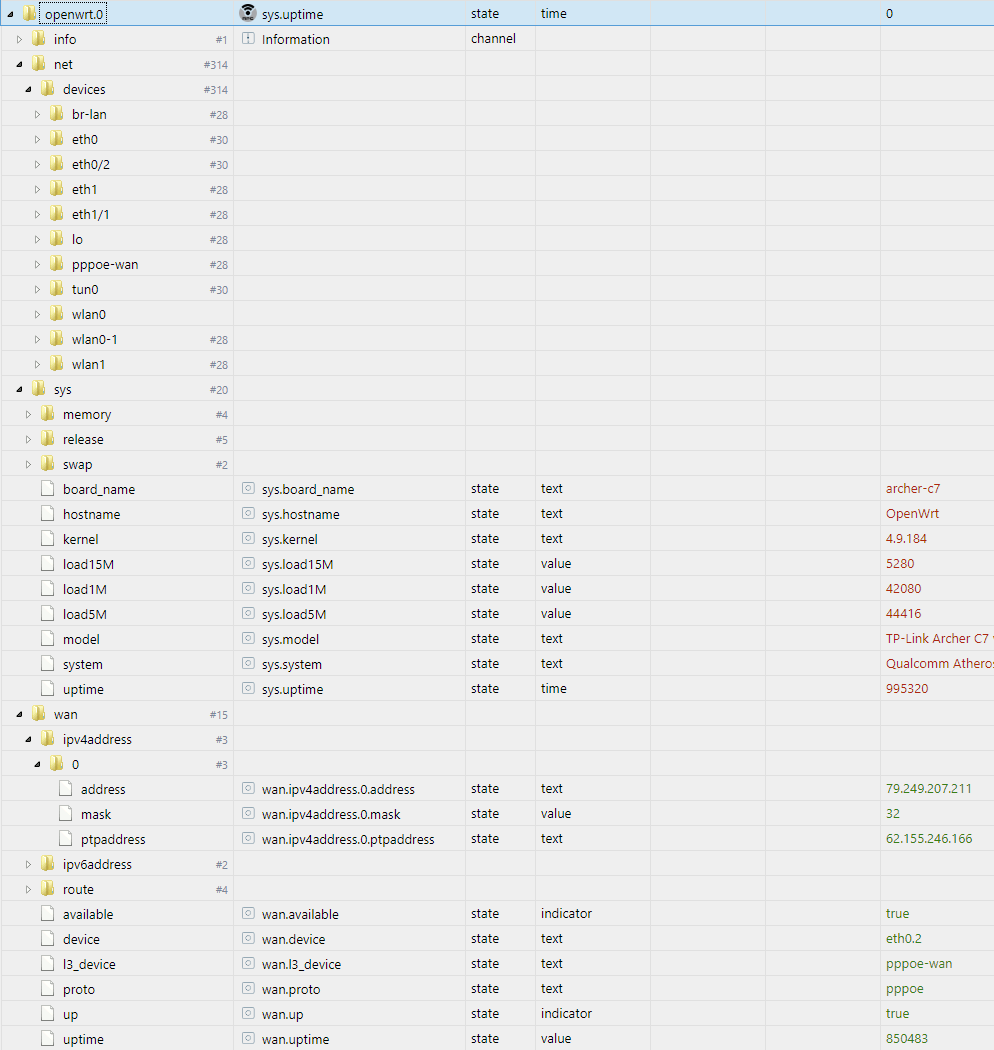
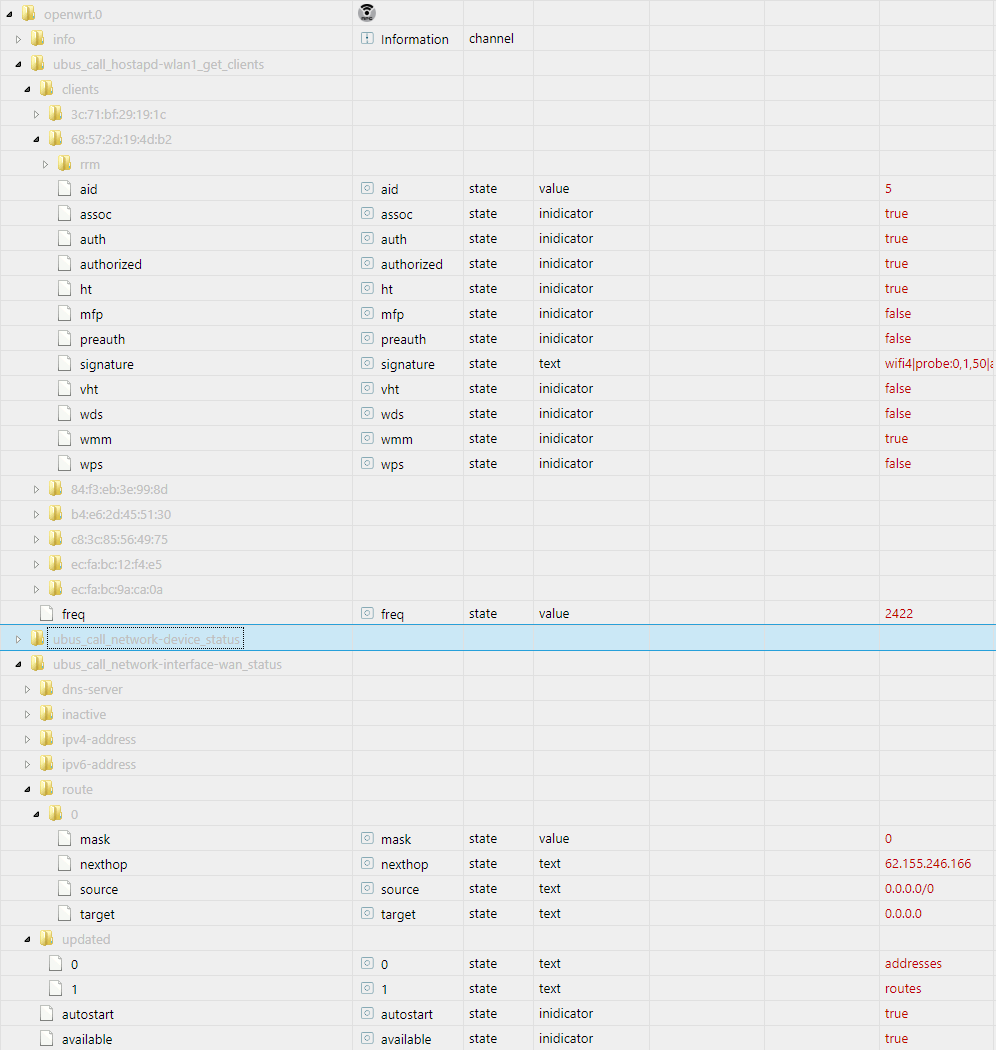
Removed old function, commands documented in wiki Updated picture for readme

diff --git a/main.js b/main.js
@@ -369,7 +369,7 @@ class Openwrt extends utils.Adapter {
 
 
 
-    fHTTPGetUbusCMD(sCMD) {  //UBUS Communication
+    fHTTPGetUbusCMD(sCMD) {  //ubus Communication
         const oReqBody = {
             "method": "exec",
             "params": [ sCMD ]
@@ -403,255 +403,6 @@ class Openwrt extends utils.Adapter {
             }
         });
     }
-
-    /*fHTTPGetSysinfo() {  //System-Information
-        const oReqBody = {
-            "method": "exec",
-            "params": [ "ubus call system info" ]
-        };
-        const oReqOpt = {
-            "method": "POST",
-            "url": this.config.inp_url + "sys?auth="+this.config.sToken,
-            "headers": {
-                "Content-Type": ["application/json", "text/plain"]
-            },
-            "body": JSON.stringify(oReqBody)            
-        };
-
-        request(oReqOpt, async (error, response, body) => {
-            if (await this.fValidateHTTPResult(error,response,"GetSysinfo")) {
-                try {
-                    //bug... output \n\t\ seems broken, delete it
-                    body = this.replaceAll(body,"\n\t","");
-                    const oBody = JSON.parse(body);
-                    if (!oBody.error && oBody.result) {
-                        const oSysInfo = JSON.parse(oBody.result);
-                        if(typeof oSysInfo.uptime != "undefined") this.fSetValue2State(oSysInfo.uptime, { name: "sys.uptime", type: "number", role: "value", read: true, write: false }); 
-                        if(typeof oSysInfo.load != "undefined") {
-                            this.fSetValue2State(oSysInfo.load[1], { name: "sys.load1M", type: "number", role: "value", read: true, write: false }); 
-                            this.fSetValue2State(oSysInfo.load[2], { name: "sys.load5M", type: "number", role: "value", read: true, write: false }); 
-                            this.fSetValue2State(oSysInfo.load[3], { name: "sys.load15M", type: "number", role: "value", read: true, write: false });
-                        }
-                        if(typeof oSysInfo.memory.total != "undefined") this.fSetValue2State(oSysInfo.memory.total, { name: "sys.memory.total", type: "number", role: "value", read: true, write: false }); 
-                        if(typeof oSysInfo.memory.free != "undefined") this.fSetValue2State(oSysInfo.memory.free, { name: "sys.memory.free", type: "number", role: "value", read: true, write: false }); 
-                        if(typeof oSysInfo.memory.shared != "undefined") this.fSetValue2State(oSysInfo.memory.shared, { name: "sys.memory.shared", type: "number", role: "value", read: true, write: false }); 
-                        if(typeof oSysInfo.memory.buffered != "undefined") this.fSetValue2State(oSysInfo.memory.buffered, { name: "sys.memory.buffered", type: "number", role: "value", read: true, write: false }); 
-                        if(typeof oSysInfo.swap.total != "undefined") this.fSetValue2State(oSysInfo.swap.total, { name: "sys.swap.total", type: "number", role: "value", read: true, write: false }); 
-                        if(typeof oSysInfo.swap.free != "undefined") this.fSetValue2State(oSysInfo.swap.free, { name: "sys.swap.free", type: "number", role: "value", read: true, write: false });
-                    }
-                } catch (e) {
-                    this.log.info("##### fHTTPGetSysinfo CatchError: " + e);
-                }
-            }
-        });
-    }
-    
-
-    fHTTPGetSysBoard() {  //System-Information
-        const oReqBody = {
-            "method": "exec",
-            "params": [ "ubus call system board" ]
-        };
-        const oReqOpt = {
-            "method": "POST",
-            "url": this.config.inp_url + "sys?auth="+this.config.sToken,
-            "headers": {
-                "Content-Type": ["application/json", "text/plain"]
-            },
-            "body": JSON.stringify(oReqBody)            
-        };
-
-        request(oReqOpt, async (error, response, body) => {
-            if (await this.fValidateHTTPResult(error,response,"GetSysBoard")) {
-                try {
-                    //bug... output \n\t\ seems broken, delete it
-                    body = this.replaceAll(body,"\n\t","");
-                    const oBody = JSON.parse(body);
-                    if (!oBody.error && oBody.result) {
-                        const oSysInfo = JSON.parse(oBody.result);
-                        if(typeof oSysInfo.kernel != "undefined") this.fSetValue2State(oSysInfo.kernel, { name: "sys.kernel", type: "text", role: "text", read: true, write: false }); 
-                        if(typeof oSysInfo.hostname != "undefined") this.fSetValue2State(oSysInfo.hostname, { name: "sys.hostname", type: "text", role: "text", read: true, write: false }); 
-                        if(typeof oSysInfo.system != "undefined") this.fSetValue2State(oSysInfo.system, { name: "sys.system", type: "text", role: "text", read: true, write: false }); 
-                        if(typeof oSysInfo.model != "undefined") this.fSetValue2State(oSysInfo.model, { name: "sys.model", type: "text", role: "text", read: true, write: false }); 
-                        if(typeof oSysInfo.board_name != "undefined") this.fSetValue2State(oSysInfo.board_name, { name: "sys.board_name", type: "text", role: "text", read: true, write: false }); 
-                        if(typeof oSysInfo.release.distribution != "undefined") this.fSetValue2State(oSysInfo.release.distribution, { name: "sys.release.distribution", type: "text", role: "text", read: true, write: false }); 
-                        if(typeof oSysInfo.release.version != "undefined") this.fSetValue2State(oSysInfo.release.version, { name: "sys.release.version", type: "text", role: "text", read: true, write: false }); 
-                        if(typeof oSysInfo.release.revision != "undefined") this.fSetValue2State(oSysInfo.release.revision, { name: "sys.release.revision", type: "text", role: "text", read: true, write: false }); 
-                        if(typeof oSysInfo.release.target != "undefined") this.fSetValue2State(oSysInfo.release.target, { name: "sys.release.target", type: "text", role: "text", read: true, write: false }); 
-                        if(typeof oSysInfo.release.description != "undefined") this.fSetValue2State(oSysInfo.release.description, { name: "sys.release.description", type: "text", role: "text", read: true, write: false });
-                    }
-                } catch (e) {
-                    this.log.info("##### fHTTPGetSysBoard CatchError: " + e);
-                }
-            }
-        });
-    }
-
-    fHTTPGetWANInfo() {  //WAN-Information
-        const oReqBody = {
-            "method": "exec",
-            "params": [ "ubus call network.interface.wan status" ]
-        };
-        const oReqOpt = {
-            "method": "POST",
-            "url": this.config.inp_url + "sys?auth="+this.config.sToken,
-            "headers": {
-                "Content-Type": ["application/json", "text/plain"]
-            },
-            "body": JSON.stringify(oReqBody)            
-        };
-
-        request(oReqOpt, async (error, response, body) => {
-            if (await this.fValidateHTTPResult(error,response,"GetWANInfo")) {
-                try {
-                    //bug... output \n\t\ seems broken, delete it
-                    body = this.replaceAll(body,"\n\t","");
-                    const oBody = JSON.parse(body);
-                    if (!oBody.error && oBody.result) {
-                        const oWANInfo = JSON.parse(oBody.result);
-                        for (const [key, value] of Object.entries(oWANInfo)) {  
-                            this.fSetValue2State(value,key);
-                            //if(typeof oWANInfo.up != "undefined") this.fSetValue2State(oWANInfo.up, { name: "wan.up", type: "boolean", role: "indicator", read: true, write: false });
-                            this.log.info(key + ": " + type.get(value));
-                        }
-                        
-                        if(typeof oWANInfo.up != "undefined") this.fSetValue2State(oWANInfo.up, { name: "wan.up", type: "boolean", role: "indicator", read: true, write: false }); 
-                        if(typeof oWANInfo.uptime != "undefined") this.fSetValue2State(oWANInfo.uptime, { name: "wan.uptime", type: "number", role: "value", read: true, write: false }); 
-                        if(typeof oWANInfo.available != "undefined") this.fSetValue2State(oWANInfo.available, { name: "wan.available", type: "boolean", role: "indicator", read: true, write: false }); 
-                        if(typeof oWANInfo.l3_device != "undefined") this.fSetValue2State(oWANInfo.l3_device, { name: "wan.l3_device", type: "text", role: "text", read: true, write: false }); 
-                        if(typeof oWANInfo.proto != "undefined") this.fSetValue2State("type: " +type.get(oWANInfo.proto), { name: "wan.proto", type: "text", role: "text", read: true, write: false }); 
-                        if(typeof oWANInfo.device != "undefined") this.fSetValue2State(oWANInfo.device, { name: "wan.device", type: "text", role: "text", read: true, write: false }); 
-                        let nObjCnt = 0;
-                        if (typeof oWANInfo["ipv4-address"] != "undefined") oWANInfo["ipv4-address"].forEach(oAddr => {
-                            if (typeof oAddr.address != "undefined") this.fSetValue2State(oAddr.address, { name: "wan.ipv4address." + nObjCnt.toString() + ".address", type: "text", role: "text", read: true, write: false });
-                            if (typeof oAddr.mask != "undefined") this.fSetValue2State(oAddr.mask, { name: "wan.ipv4address." + nObjCnt.toString() + ".mask", type: "number", role: "value", read: true, write: false });
-                            if (typeof oAddr.ptpaddress != "undefined") this.fSetValue2State(oAddr.ptpaddress, { name: "wan.ipv4address." + nObjCnt.toString() + ".ptpaddress", type: "text", role: "text", read: true, write: false });
-                            nObjCnt ++;
-                        });
-                        nObjCnt = 0;
-                        if (typeof oWANInfo["ipv6-address"] != "undefined") oWANInfo["ipv6-address"].forEach(oAddr => {
-                            if (typeof oAddr.address != "undefined") this.fSetValue2State(oAddr.address, { name: "wan.ipv6address." + nObjCnt.toString() + ".address", type: "text", role: "text", read: true, write: false });
-                            if (typeof oAddr.mask != "undefined") this.fSetValue2State(oAddr.mask, { name: "wan.ipv6address." + nObjCnt.toString() + ".mask", type: "number", role: "value", read: true, write: false });
-                            if (typeof oAddr.ptpaddress != "undefined") this.fSetValue2State(oAddr.ptpaddress, { name: "wan.ipv6address." + nObjCnt.toString() + ".ptpaddress", type: "text", role: "text", read: true, write: false });
-                            nObjCnt ++;
-                        });
-                        nObjCnt = 0;
-                        if (typeof oWANInfo.route != "undefined") oWANInfo.route.forEach(oRoute => {
-                            if (typeof oRoute.target != "undefined") this.fSetValue2State(oRoute.target, { name: "wan.route." + nObjCnt.toString() + ".target", type: "text", role: "text", read: true, write: false });
-                            if (typeof oRoute.mask != "undefined") this.fSetValue2State(oRoute.mask, { name: "wan.route." + nObjCnt.toString() + ".mask", type: "number", role: "value", read: true, write: false });
-                            if (typeof oRoute.nexthop != "undefined") this.fSetValue2State(oRoute.nexthop, { name: "wan.route." + nObjCnt.toString() + ".nexthop", type: "text", role: "text", read: true, write: false });
-                            if (typeof oRoute.source != "undefined") this.fSetValue2State(oRoute.source, { name: "wan.route." + nObjCnt.toString() + ".source", type: "text", role: "text", read: true, write: false });
-                            nObjCnt ++;
-                        });
-                        
-                    }
-                } catch (e) {
-                    this.log.info("##### fHTTPGetWANInfo CatchError: " + e);
-                }
-            }
-        });
-    }
-
-
-
-
-    fHTTPGetHostname() {  //Hostname
-        const oReqBody = {
-            "method": "hostname"
-        };
-        const oReqOpt = {
-            "method": "POST",
-            "url": this.config.inp_url + "sys?auth="+this.config.sToken,
-            "headers": {
-                "Content-Type": ["application/json", "text/plain"]
-            },
-            "body": JSON.stringify(oReqBody)            
-        };
-
-        request(oReqOpt, async (error, response, body) => {
-            if (await this.fValidateHTTPResult(error,response,"GetHostname")) {
-                const oBody = JSON.parse(body);
-                if (!oBody.error && oBody.result) {
-                    const oSetObj = { name: "sys.hostname", type: "text", role: "text", read: true, write: false };
-                    this.fSetValue2State(oBody.result, oSetObj);
-                }
-            }
-        });
-    }
-
-    fHTTPGetInterfaces() {  //Get Interfaces
-        const oReqBody = {
-            "method": "net.devices"
-        };
-        const oReqOpt = {
-            "method": "POST",
-            "url": this.config.inp_url + "sys?auth="+this.config.sToken,
-            "headers": {
-                "Content-Type": ["application/json", "text/plain"]
-            },
-            "body": JSON.stringify(oReqBody)            
-        };
-
-        request(oReqOpt, async (error, response, body) => {
-            if (await this.fValidateHTTPResult(error,response,"GetInterfaces")) {
-                try {
-                    const oBody = JSON.parse(body);
-                    if (!oBody.error && oBody.result) {
-                        oBody.result.forEach(oDev => {
-                            oDev = oDev.replace(".","/"); //eth1.1 would result crappy in subfolders, we replace . with /
-                            const oSetObj = { name: "net.devices." + oDev + ".exists", type: "boolean", role: "indicator", read: true, write: false };
-                            //this.fSetValue2State(true, oSetObj);
-                            oDev = oDev.replace("/","."); //replace it to original for api query( / to .)
-                            this.fHTTPGetInterfaceDetail(oDev);
-                        });
-                    }
-                } catch (e) {
-                    this.log.info("##### fHTTPGetInterfaces CatchError: " + e);
-                }
-            }
-        });
-    }
-
-    fHTTPGetInterfaceDetail(sDevName) {  //Interface-Detail-Information
-        const oReqBody = {
-            "method": "exec",
-            "params": ["ubus call network.device status '{ \"name\": \"" + sDevName + "\" }'" ]
-        };
-        const oReqOpt = {
-            "method": "POST",
-            "url": this.config.inp_url + "sys?auth="+this.config.sToken,
-            "headers": {
-                "Content-Type": ["application/json", "text/plain"]
-            },
-            "body": JSON.stringify(oReqBody)            
-        };
-
-        request(oReqOpt, async (error, response, body) => {
-            if (await this.fValidateHTTPResult(error,response,"GetInterfaceDetail for "+sDevName)) {
-                try {
-                    //bug... output \n\t\ seems broken, delete it
-                    body = this.replaceAll(body,"\n\t","");
-                    const oBody = JSON.parse(body);
-                    if (!oBody.error && oBody.result) {
-                        /*const oDevInfo = JSON.parse(oBody.result);
-                        sDevName = sDevName.replace(".","/"); //eth1.1 would result crappy in subfolders, we replace . with /
-                        if(typeof oDevInfo.type != "undefined") this.fSetValue2State(oDevInfo.type, { name: "net.devices." + sDevName + ".type", type: "text", role: "text", read: true, write: false }); 
-                        if(typeof oDevInfo.up != "undefined") this.fSetValue2State(oDevInfo.up, { name: "net.devices." + sDevName + ".up", type: "boolean", role: "indicator", read: true, write: false }); 
-                        if(typeof oDevInfo.speed != "undefined") this.fSetValue2State(oDevInfo.speed, { name: "net.devices." + sDevName + ".speed", type: "text", role: "text", read: true, write: false }); 
-                        if(typeof oDevInfo.autoneg != "undefined") this.fSetValue2State(oDevInfo.autoneg, { name: "net.devices." + sDevName + ".autoneg", type: "boolean", role: "indicator", read: true, write: false }); 
-                        if(typeof oDevInfo.mtu != "undefined") this.fSetValue2State(oDevInfo.mtu, { name: "net.devices." + sDevName + ".mtu", type: "number", role: "value", read: true, write: false }); 
-                        if(typeof oDevInfo.macaddr != "undefined") this.fSetValue2State(oDevInfo.macaddr, { name: "net.devices." + sDevName + ".macaddr", type: "text", role: "text", read: true, write: false }); 
-                        for (const [key, value] of Object.entries(oDevInfo.statistics)) {  
-                            this.fSetValue2State(value, { name: "net.devices." + sDevName + "."+key, type: "number", role: "value", read: true, write: false }); 
-                        }
-                    }
-                } catch (e) {
-                    this.log.info("##### fHTTPGetInterfaceDetail CatchError: " + e);
-                }
-            }
-        });
-    }
-    */
 }
 
 
